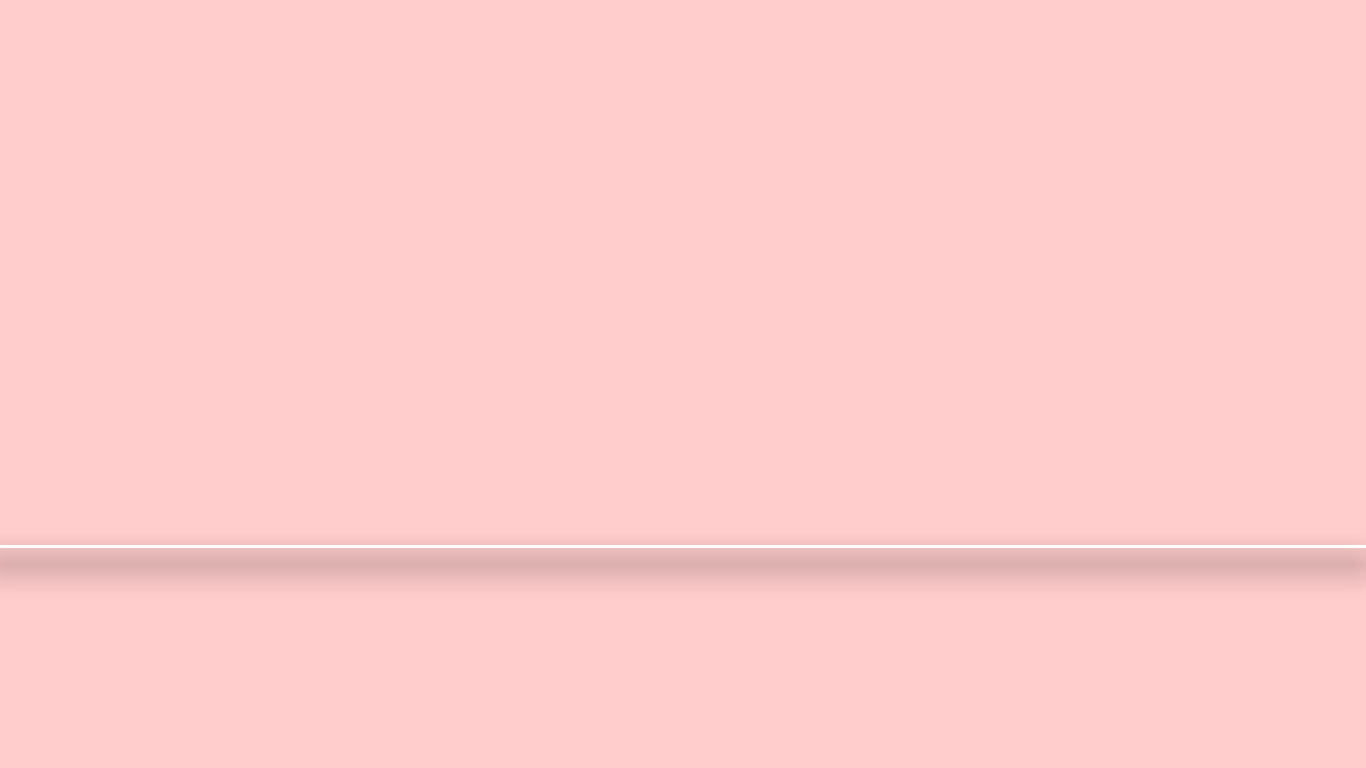
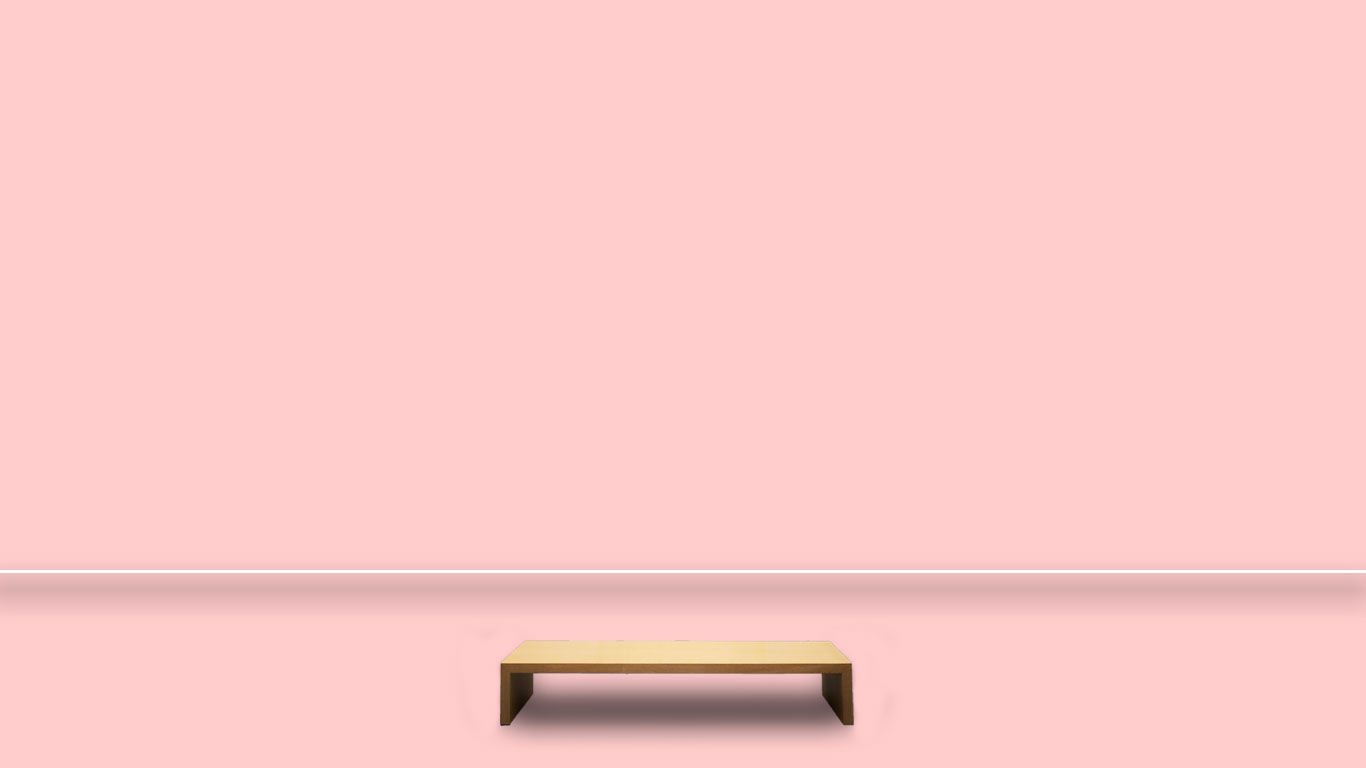
modifies visual page bg

Changed region(s): [[0.0, 0.6875, 1.0, 0.7812], [0.3382, 0.8125, 0.6457, 0.9688]]

diff --git a/src/pages/visuals/index.js b/src/pages/visuals/index.js
@@ -4,7 +4,7 @@ import { graphql, useStaticQuery } from 'gatsby'
 import Layout from '../../components/layout'
 import Works from '../../components/works'
 
-import background from '../../images/visuals-bg.jpg'
+import background from '../../images/visuals-bg-3.jpg'
 
 import visualStyles from '../../styles/visuals.module.css'
 

diff --git a/src/styles/visual.module.css b/src/styles/visual.module.css
@@ -24,6 +24,7 @@
 
 .visual .text p {
     font-size: 20px;
+    margin: 1% 0;
 }
 
 .visual .images {
